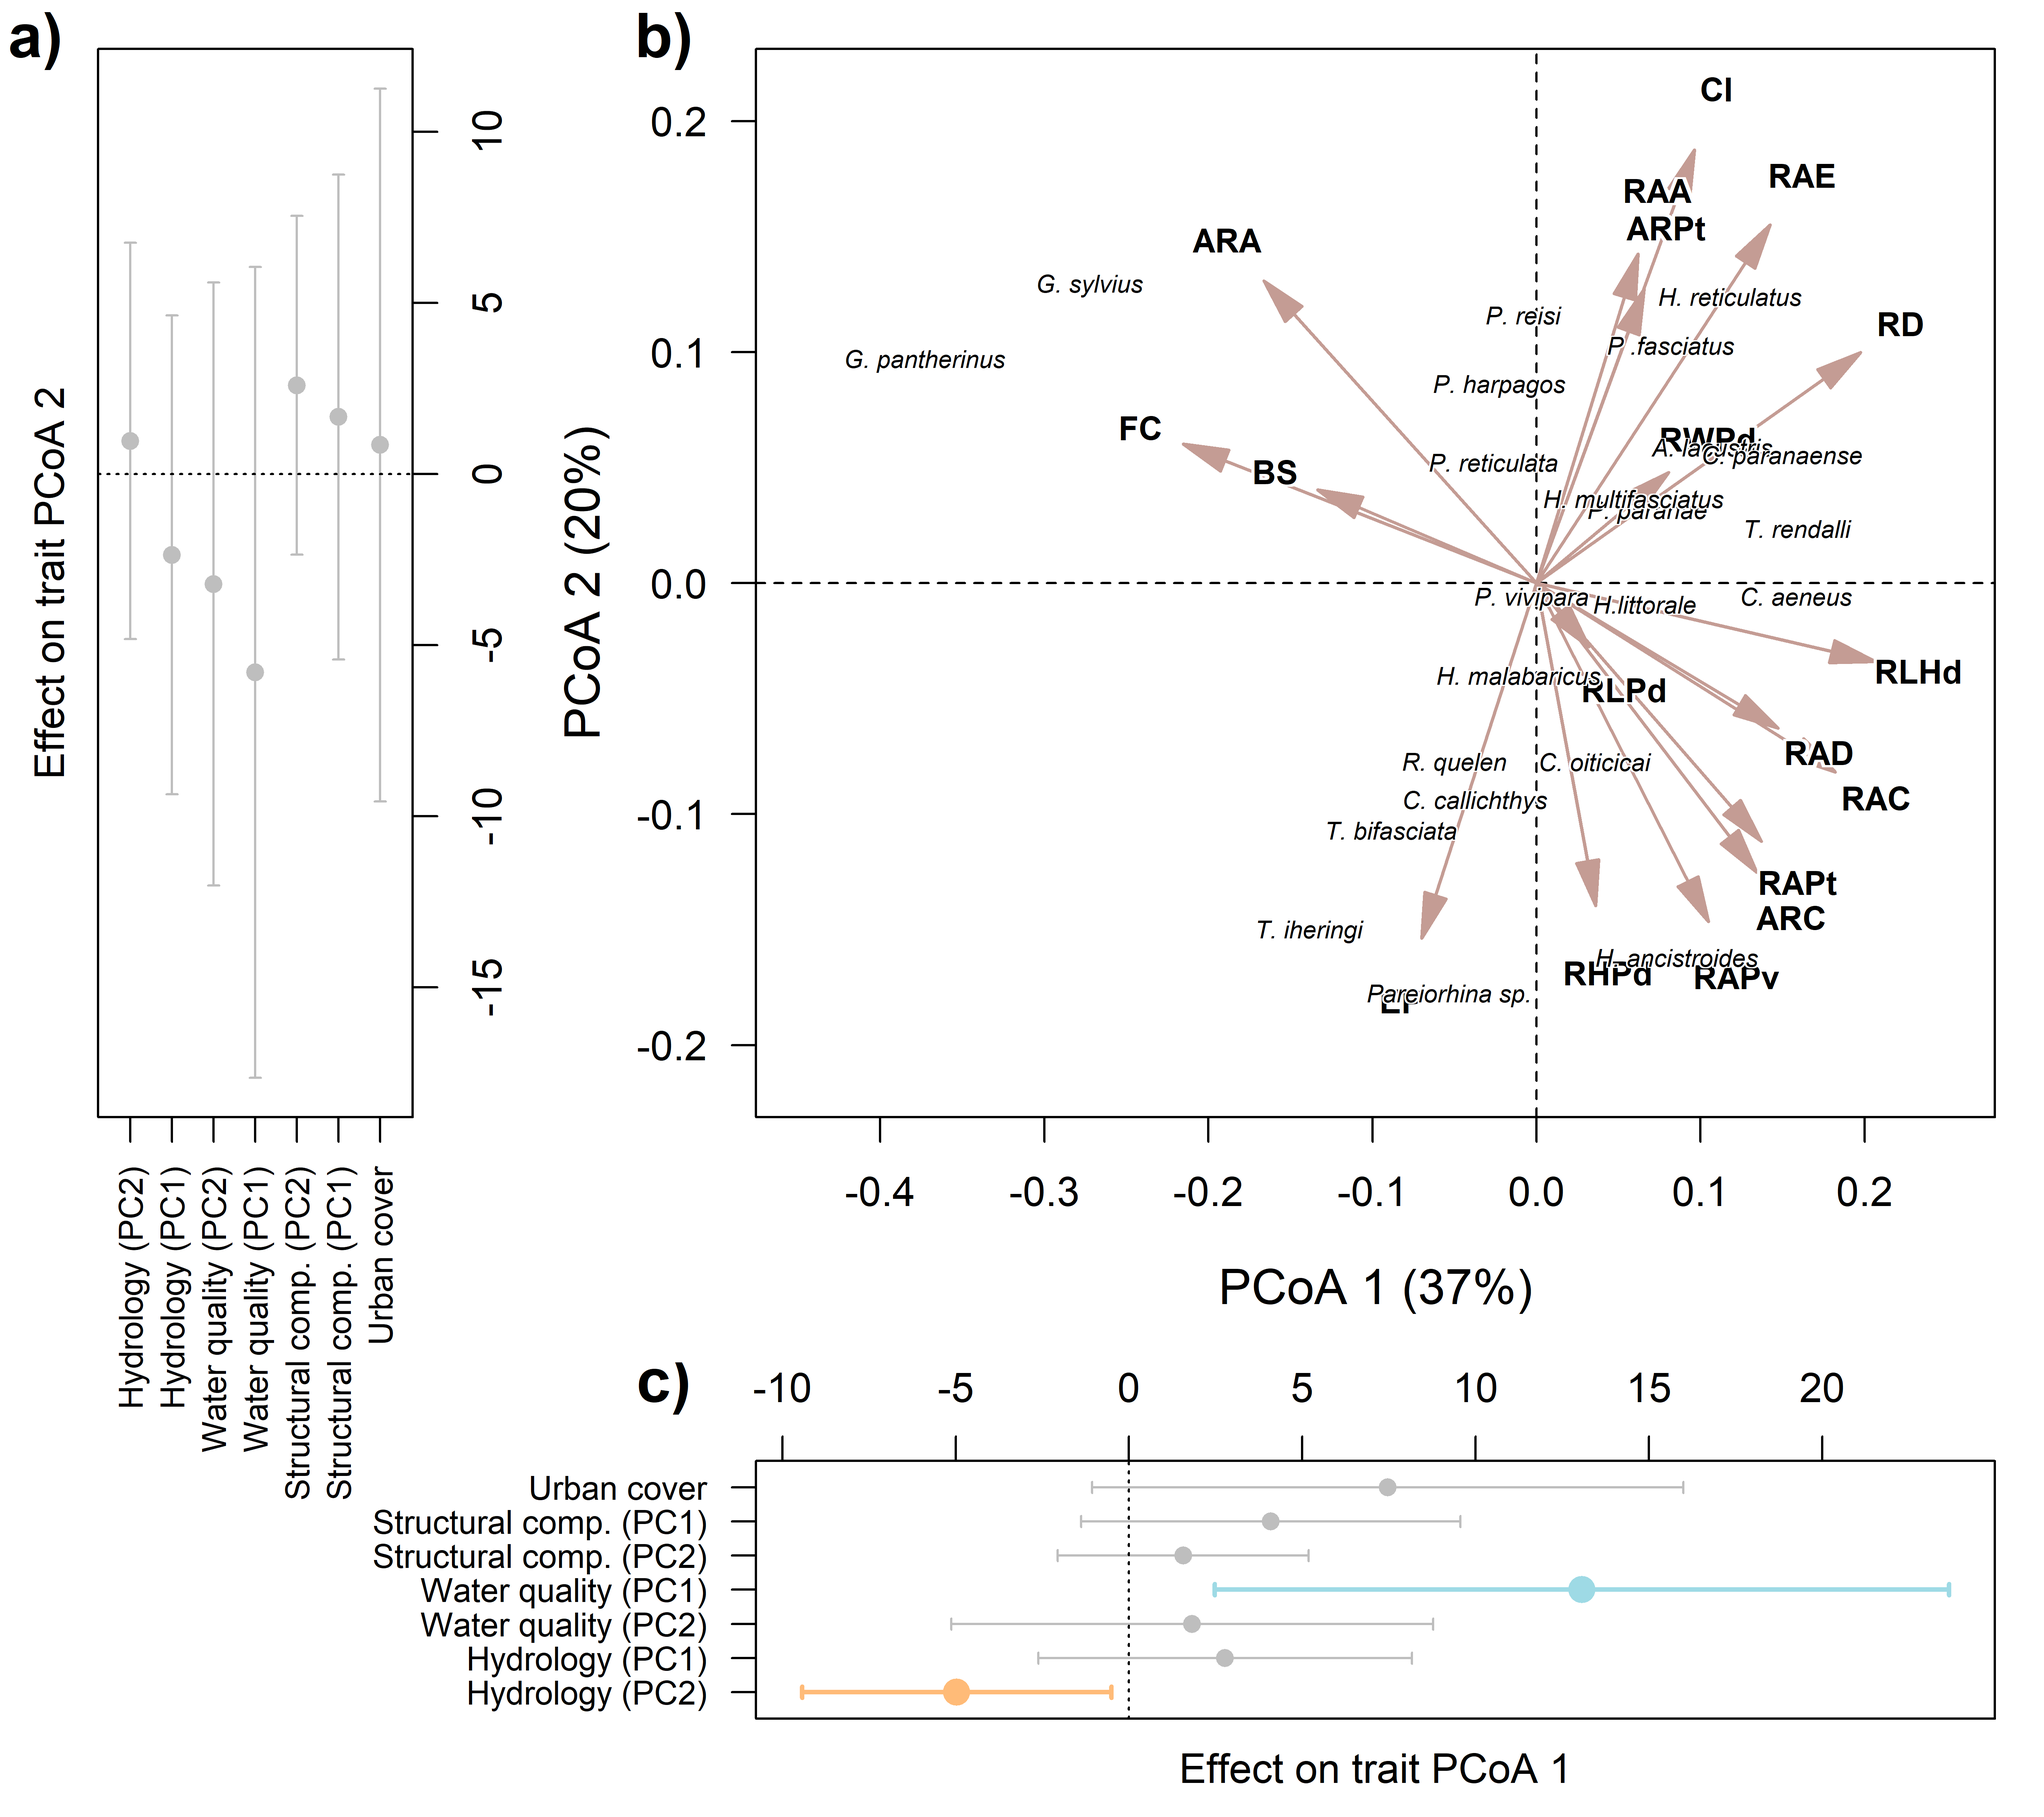
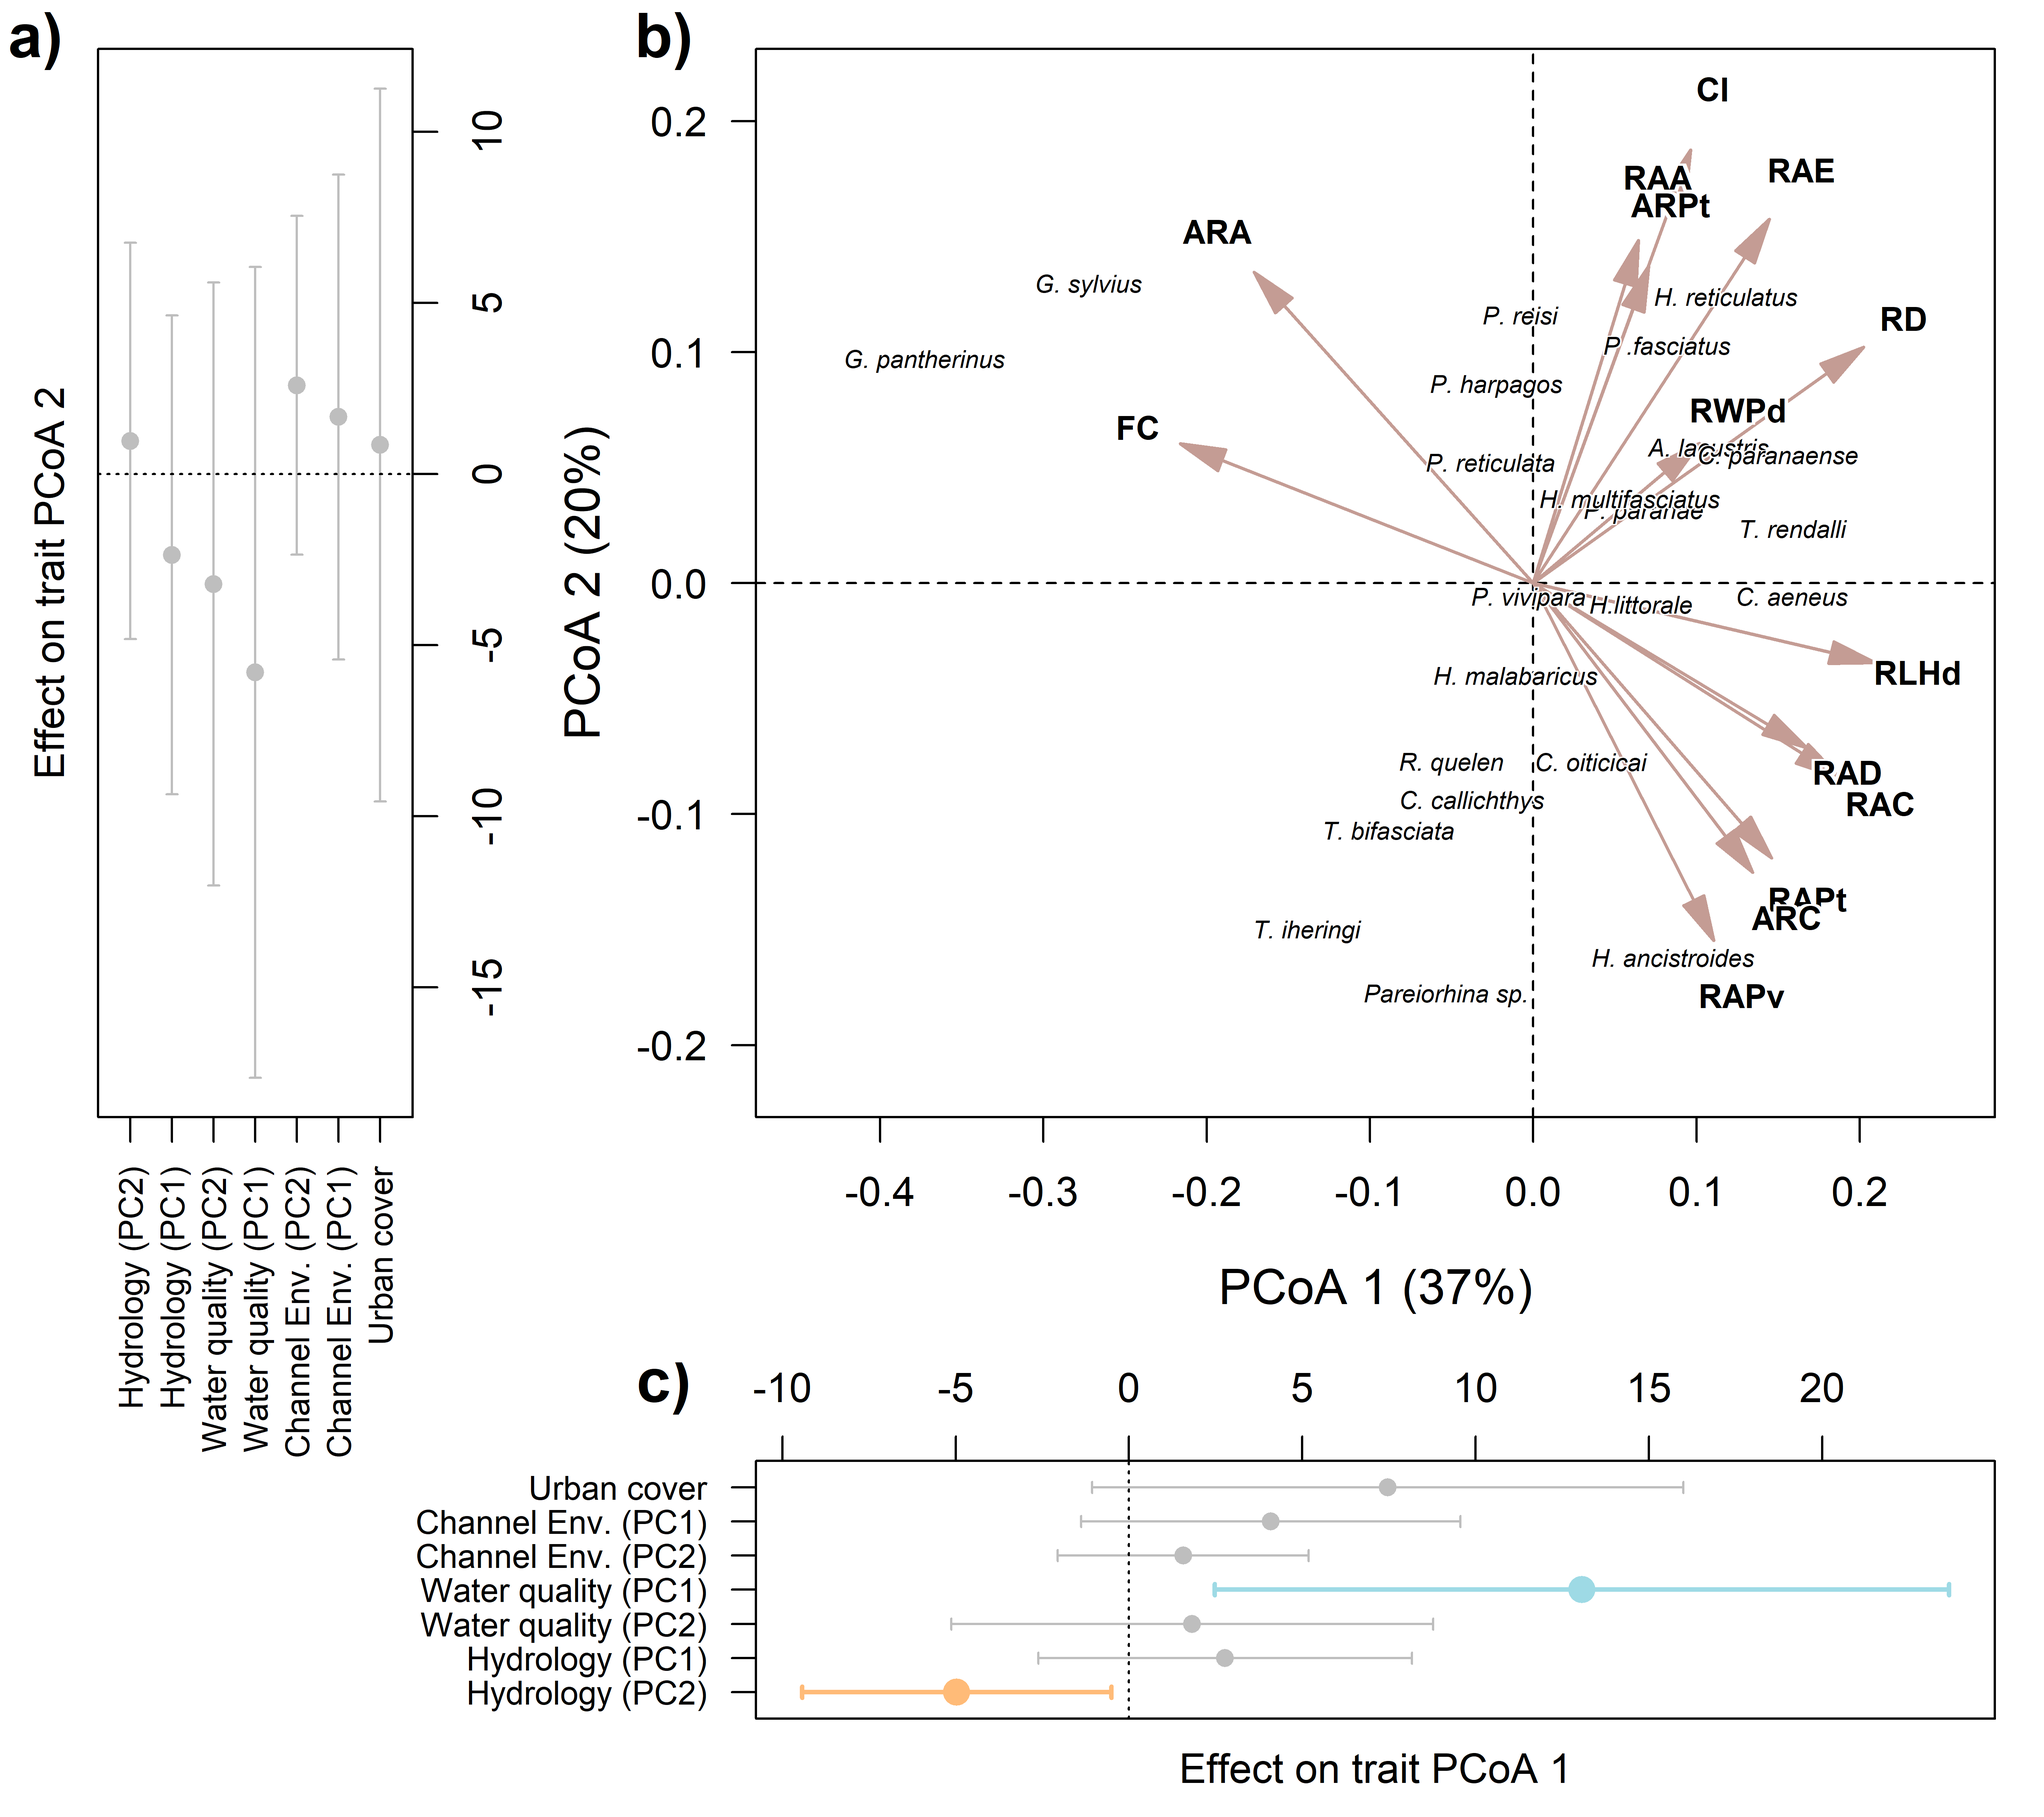
small change in figures

diff --git a/Markdowns/Traitglm_Linear.md b/Markdowns/Traitglm_Linear.md
@@ -1,7 +1,7 @@
 Traitglm_ONE
 ================
 Rodolfo Pelinson
-2026-09-24
+2026-09-25
 
 ``` r
 dir<-("C:/Users/rodol/OneDrive/repos/Urban_fish_assemblages")
@@ -387,7 +387,7 @@ new_func$exotic[rownames(new_func) == "Tilapia_rendalli" | rownames(new_func) ==
 non_morph_func <- new_func
 ```
 
-### Trait PCAs
+### Trait PCoAs
 
 #### Morphological traits
 
@@ -399,7 +399,7 @@ functional <- functional[,colSums(functional, na.rm = TRUE) > 0]
 functional <- functional[,colSums(functional, na.rm = TRUE)/nrow(functional) != 1]
 
 
-#functional_st <- decostand(functional, method = "stand")
+functional_st <- decostand(functional, method = "stand")
 gower_dist <- vegdist(functional, method = "gower")
 
 pcoa <- wcmdscale(gower_dist, eig = TRUE)
@@ -412,14 +412,16 @@ importance_funcional
     ##  [1] 0.37 0.20 0.17 0.08 0.04 0.03 0.03 0.02 0.02 0.01 0.01 0.01 0.01 0.00 0.00
 
 ``` r
-efit <- envfit(pcoa$points, functional, choices = c(1,2,3))
-trait_scores <- scores(efit, display = "vectors")
+efit <- envfit(pcoa$points, functional, choices = c(1,2))
+trait_scores <- scores(efit, display = "vectors") #correlation coefficients .Loadings
 
 sig_traits <- which(efit$vectors$pvals < 0.05 & efit$vectors$r > 0.5)
 
-functional_PCs <- pcoa$points[,1:3]
-colnames(functional_PCs) <- c("PC1","PC2", "PC3")
-functional_loadings <- trait_scores
+trait_scores_filtered <- trait_scores[trait_scores[,1] > 0.25 | trait_scores[,2] > 0.25,]
+
+functional_PCs <- pcoa$points[,1:2]
+colnames(functional_PCs) <- c("PC1","PC2")
+functional_loadings <- trait_scores_filtered
 ```
 
 Assessing effects on community responses:
@@ -427,20 +429,20 @@ Assessing effects on community responses:
 ``` r
 urb_pred <- data.frame(urb = urb)
 colnames(urb_pred) <- c("urb")
-Model_trait_urb_trait <- traitglm(L = assembleia_peixes_rm, R = urb_pred, Q = data.frame(functional_PCs[,1:3]), formula = ~ urb + PC1 + PC2 + I(PC1^2) + I(PC2^2) + urb:PC1 + urb:PC2)
+Model_trait_urb_trait <- traitglm(L = assembleia_peixes_rm, R = urb_pred, Q = data.frame(functional_PCs[,1:2]), formula = ~ urb + PC1 + PC2 + I(PC1^2) + I(PC2^2) + urb:PC1 + urb:PC2)
 
 
 structural_complexity_pred <- data.frame(structural_complexity_PC1 = structural_complexity_PCs[,1],
                                          structural_complexity_PC2 = structural_complexity_PCs[,2])
-Model_trait_structural_complexity_trait <- traitglm(L = assembleia_peixes_rm, R = structural_complexity_pred, Q = data.frame(functional_PCs[,1:3]), formula = ~ structural_complexity_PC1 + structural_complexity_PC2 + PC1 + PC2 + I(PC1^2) + I(PC2^2) + structural_complexity_PC1:PC1 + structural_complexity_PC1:PC2 + structural_complexity_PC2:PC1 + structural_complexity_PC2:PC2)
+Model_trait_structural_complexity_trait <- traitglm(L = assembleia_peixes_rm, R = structural_complexity_pred, Q = data.frame(functional_PCs[,1:2]), formula = ~ structural_complexity_PC1 + structural_complexity_PC2 + PC1 + PC2 + I(PC1^2) + I(PC2^2) + structural_complexity_PC1:PC1 + structural_complexity_PC1:PC2 + structural_complexity_PC2:PC1 + structural_complexity_PC2:PC2)
 
 water_quality_pred <- data.frame(water_quality_PC1 = water_quality_PCs[,1],
                                          water_quality_PC2 = water_quality_PCs[,2])
-Model_trait_water_quality_trait <- traitglm(L = assembleia_peixes_rm, R = water_quality_pred, Q = data.frame(functional_PCs[,1:3]), formula = ~ water_quality_PC1 + water_quality_PC2 + PC1 + PC2 + I(PC1^2) + I(PC2^2) +  water_quality_PC1:PC1 + water_quality_PC1:PC2 + water_quality_PC2:PC1 + water_quality_PC2:PC2)
+Model_trait_water_quality_trait <- traitglm(L = assembleia_peixes_rm, R = water_quality_pred, Q = data.frame(functional_PCs[,1:2]), formula = ~ water_quality_PC1 + water_quality_PC2 + PC1 + PC2 + I(PC1^2) + I(PC2^2) +  water_quality_PC1:PC1 + water_quality_PC1:PC2 + water_quality_PC2:PC1 + water_quality_PC2:PC2)
 
 hydrology_pred <- data.frame(hydrology_PC1 = hydrology_PCs[,1],
                                          hydrology_PC2 = hydrology_PCs[,2])
-Model_trait_hydrology_trait <- traitglm(L = assembleia_peixes_rm, R = hydrology_pred, Q = data.frame(functional_PCs[,1:3]), formula = ~ hydrology_PC1 + hydrology_PC2 + PC1 + PC2 + I(PC1^2) + I(PC2^2) + hydrology_PC1:PC1 + hydrology_PC1:PC2 + hydrology_PC2:PC1 + hydrology_PC2:PC2)
+Model_trait_hydrology_trait <- traitglm(L = assembleia_peixes_rm, R = hydrology_pred, Q = data.frame(functional_PCs[,1:2]), formula = ~ hydrology_PC1 + hydrology_PC2 + PC1 + PC2 + I(PC1^2) + I(PC2^2) + hydrology_PC1:PC1 + hydrology_PC1:PC2 + hydrology_PC2:PC1 + hydrology_PC2:PC2)
 
 
 
@@ -473,8 +475,7 @@ correlated with them.
 ``` r
 #Scale loadings
 scaler <- min(max(abs(functional_PCs[, 1]))/max(abs(functional_loadings[,1])),
-              max(abs(functional_PCs[, 2]))/max(abs(functional_loadings[,2])),
-              max(abs(functional_PCs[, 3]))/max(abs(functional_loadings[,3])))
+              max(abs(functional_PCs[, 2]))/max(abs(functional_loadings[,2])))
 
 functional_loadings_sc <- functional_loadings * scaler
 
@@ -485,7 +486,7 @@ functional_loadings_sc <- functional_loadings * scaler
 #                                                           functional_loadings_sc[,2] > threshold | functional_loadings_sc[,2] < #-threshold),1:2]
 #functional_loadings_filtrados
 
-functional_loadings_filtrados <- functional_loadings_sc[sig_traits,]                                                   
+functional_loadings_filtrados <- functional_loadings_sc                                                 
 ```
 
 Lets plot this PCA
@@ -581,7 +582,7 @@ lower_PC2<- coefs_PC2 - CI_PC2
 
 #labels <- c("Urban cover", "(Urban cover)²", "Stream structure (PC2)", "Stream structure (PC2)²", "Water parameters (PC1)","Water parameters (PC1)²", "Watershed descriptors (PC1)", "Watershed descriptors (PC1)²")
 
-labels <- c("Urban cover", "Structural comp. (PC1)",  "Structural comp. (PC2)","Water quality (PC1)", "Water quality (PC2)","Hydrology (PC1)", "Hydrology (PC2)")
+labels <- c("Urban cover", "Channel Env. (PC1)",  "Channel Env. (PC2)","Water quality (PC1)", "Water quality (PC2)","Hydrology (PC1)", "Hydrology (PC2)")
 ```
 
 ``` r
@@ -715,15 +716,17 @@ importance_funcional_non_morph
     ## [1] 0.37 0.23 0.19 0.09 0.06 0.03 0.02 0.01 0.00
 
 ``` r
-efit_non_morph <- envfit(pcoa_non_morph$points, non_morph_func, choices = c(1,2,3))
+efit_non_morph <- envfit(pcoa_non_morph$points, non_morph_func, choices = c(1,2))
 trait_scores_non_mortph <- scores(efit_non_morph, display = "vectors")
 
-sig_traits <- which(efit_non_morph$vectors$pvals < 0.05 & efit_non_morph$vectors$r > 0.5)
+#sig_traits <- which(efit_non_morph$vectors$pvals < 0.05 & efit_non_morph$vectors$r > 0.5)
+
+trait_scores_non_mortph_filtered <- trait_scores_non_mortph[trait_scores_non_mortph[,1] > 0.25 | trait_scores_non_mortph[,2] > 0.25,]
 
 
-non_morph_func_PCs <- pcoa_non_morph$points[,1:3]
-colnames(non_morph_func_PCs) <- c("PC1","PC2", "PC3")
-non_morph_func_loadings <- trait_scores_non_mortph
+non_morph_func_PCs <- pcoa_non_morph$points[,1:2]
+colnames(non_morph_func_PCs) <- c("PC1","PC2")
+non_morph_func_loadings <- trait_scores_non_mortph_filtered
 ```
 
 First three axis are the most important, lets see which are the traits
@@ -734,21 +737,21 @@ Assessing effects on community responses:
 ``` r
 urb_pred <- data.frame(urb = urb)
 colnames(urb_pred) <- c("urb")
-Model_trait_urb_trait <- traitglm(L = assembleia_peixes_rm, R = urb_pred, Q = data.frame(non_morph_func_PCs[,1:3]), formula = ~ urb + PC1 + PC2 + I(PC1^2) + I(PC2^2) + urb:PC1 + urb:PC2)
+Model_trait_urb_trait <- traitglm(L = assembleia_peixes_rm, R = urb_pred, Q = data.frame(non_morph_func_PCs[,1:2]), formula = ~ urb + PC1 + PC2 + I(PC1^2) + I(PC2^2) + urb:PC1 + urb:PC2)
 
 
 structural_complexity_pred <- data.frame(structural_complexity_PC1 = structural_complexity_PCs[,1],
                                          structural_complexity_PC2 = structural_complexity_PCs[,2])
-Model_trait_structural_complexity_trait <- traitglm(L = assembleia_peixes_rm, R = structural_complexity_pred, Q = data.frame(non_morph_func_PCs[,1:3]), formula = ~ structural_complexity_PC1 + structural_complexity_PC2 + PC1 + PC2 + I(PC1^2) + I(PC2^2) + structural_complexity_PC1:PC1 + structural_complexity_PC1:PC2 + structural_complexity_PC2:PC1 + structural_complexity_PC2:PC2)
+Model_trait_structural_complexity_trait <- traitglm(L = assembleia_peixes_rm, R = structural_complexity_pred, Q = data.frame(non_morph_func_PCs[,1:2]), formula = ~ structural_complexity_PC1 + structural_complexity_PC2 + PC1 + PC2 + I(PC1^2) + I(PC2^2) + structural_complexity_PC1:PC1 + structural_complexity_PC1:PC2 + structural_complexity_PC2:PC1 + structural_complexity_PC2:PC2)
 
 
 water_quality_pred <- data.frame(water_quality_PC1 = water_quality_PCs[,1],
                                          water_quality_PC2 = water_quality_PCs[,2])
-Model_trait_water_quality_trait <- traitglm(L = assembleia_peixes_rm, R = water_quality_pred, Q = data.frame(non_morph_func_PCs[,1:3]), formula = ~ water_quality_PC1 + water_quality_PC2 + PC1 + PC2 + I(PC1^2) + I(PC2^2) + water_quality_PC1:PC1 + water_quality_PC1:PC2 + water_quality_PC2:PC1 + water_quality_PC2:PC2)
+Model_trait_water_quality_trait <- traitglm(L = assembleia_peixes_rm, R = water_quality_pred, Q = data.frame(non_morph_func_PCs[,1:2]), formula = ~ water_quality_PC1 + water_quality_PC2 + PC1 + PC2 + I(PC1^2) + I(PC2^2) + water_quality_PC1:PC1 + water_quality_PC1:PC2 + water_quality_PC2:PC1 + water_quality_PC2:PC2)
 
 hydrology_pred <- data.frame(hydrology_PC1 = hydrology_PCs[,1],
                                          hydrology_PC2 = hydrology_PCs[,2])
-Model_trait_hydrology_trait <- traitglm(L = assembleia_peixes_rm, R = hydrology_pred, Q = data.frame(non_morph_func_PCs[,1:3]), formula = ~ hydrology_PC1 + hydrology_PC2 + PC1 + PC2 + I(PC1^2) + I(PC2^2) + hydrology_PC1:PC1 + hydrology_PC1:PC2 + hydrology_PC2:PC1 + hydrology_PC2:PC2)
+Model_trait_hydrology_trait <- traitglm(L = assembleia_peixes_rm, R = hydrology_pred, Q = data.frame(non_morph_func_PCs[,1:2]), formula = ~ hydrology_PC1 + hydrology_PC2 + PC1 + PC2 + I(PC1^2) + I(PC2^2) + hydrology_PC1:PC1 + hydrology_PC1:PC2 + hydrology_PC2:PC1 + hydrology_PC2:PC2)
 
 
 
@@ -815,14 +818,13 @@ lower_PC2<- coefs_PC2 - CI_PC2
 
 #labels <- c("Urban cover", "(Urban cover)²", "Stream structure (PC2)", "Stream structure (PC2)²", "Water parameters (PC1)","Water parameters (PC1)²", "Watershed descriptors (PC1)", "Watershed descriptors (PC1)²")
 
-labels <- c("Urban cover", "Structural comp. (PC1)",  "Structural comp. (PC2)","Water quality (PC1)", "Water quality (PC2)","Hydrology (PC1)", "Hydrology (PC2)")
+labels <- c("Urban cover", "Channel Env. (PC1)",  "Channel Env. (PC2)","Water quality (PC1)", "Water quality (PC2)","Hydrology (PC1)", "Hydrology (PC2)")
 ```
 
 ``` r
 #Scale loadings
 scaler <- min(max(abs(non_morph_func_PCs[, 1]))/max(abs(non_morph_func_loadings[,1])),
-              max(abs(non_morph_func_PCs[, 2]))/max(abs(non_morph_func_loadings[,2])),
-              max(abs(non_morph_func_PCs[, 3]))/max(abs(non_morph_func_loadings[,3])))
+              max(abs(non_morph_func_PCs[, 2]))/max(abs(non_morph_func_loadings[,2])))
 
 non_morph_func_loadings_sc <- non_morph_func_loadings * scaler
 
@@ -833,7 +835,7 @@ non_morph_func_loadings_sc <- non_morph_func_loadings * scaler
 #non_morph_func_loadings_filtrados
 
 
-non_morph_func_loadings_filtrados <- non_morph_func_loadings_sc[sig_traits,]                                                   
+non_morph_func_loadings_filtrados <- non_morph_func_loadings_sc                                                
 ```
 
 Lets plot this PCA
@@ -841,7 +843,7 @@ Lets plot this PCA
 ``` r
 pc1_label_non_morph_func <- paste("PCoA 1 (",round(importance_funcional_non_morph[1]*100,2),"%)",sep = "")
 pc2_label_non_morph_func <- paste("PCoA 2 (",round(importance_funcional_non_morph[2]*100,2),"%)",sep = "")
-pc3_label_non_morph_func <- paste("PCoA 3 (",round(importance_funcional_non_morph[3]*100,2),"%)",sep = "")
+#pc3_label_non_morph_func <- paste("PCoA 3 (",round(importance_funcional_non_morph[3]*100,2),"%)",sep = "")
 
 sp_names <- rownames(non_morph_func_PCs)
 
@@ -885,7 +887,7 @@ names_func[names_func == "Mac_sm_lo_6"] <- "Low-gradient streams"
 names_func[names_func == "Mac_sm_hi_7"] <- "High-gradient streams"
 names_func[names_func == "Mac_lg_lo_10"] <- "Large rivers"
 names_func[names_func == "Mic_ben_grv_22"] <- "Benthic gravel/rocks"
-names_func[names_func == "Mic_epi_col_25"] <- "Epibenthic above bottom"
+names_func[names_func == "Mic_epi_col_25"] <- "Epibenthic"
 names_func[names_func == "MAD_det_29"] <- "Planktivores"
 names_func[names_func == "MAD_alg_31"] <- "Algivores"
 names_func[names_func == "MAD_fol_32"] <- "Folivores"
